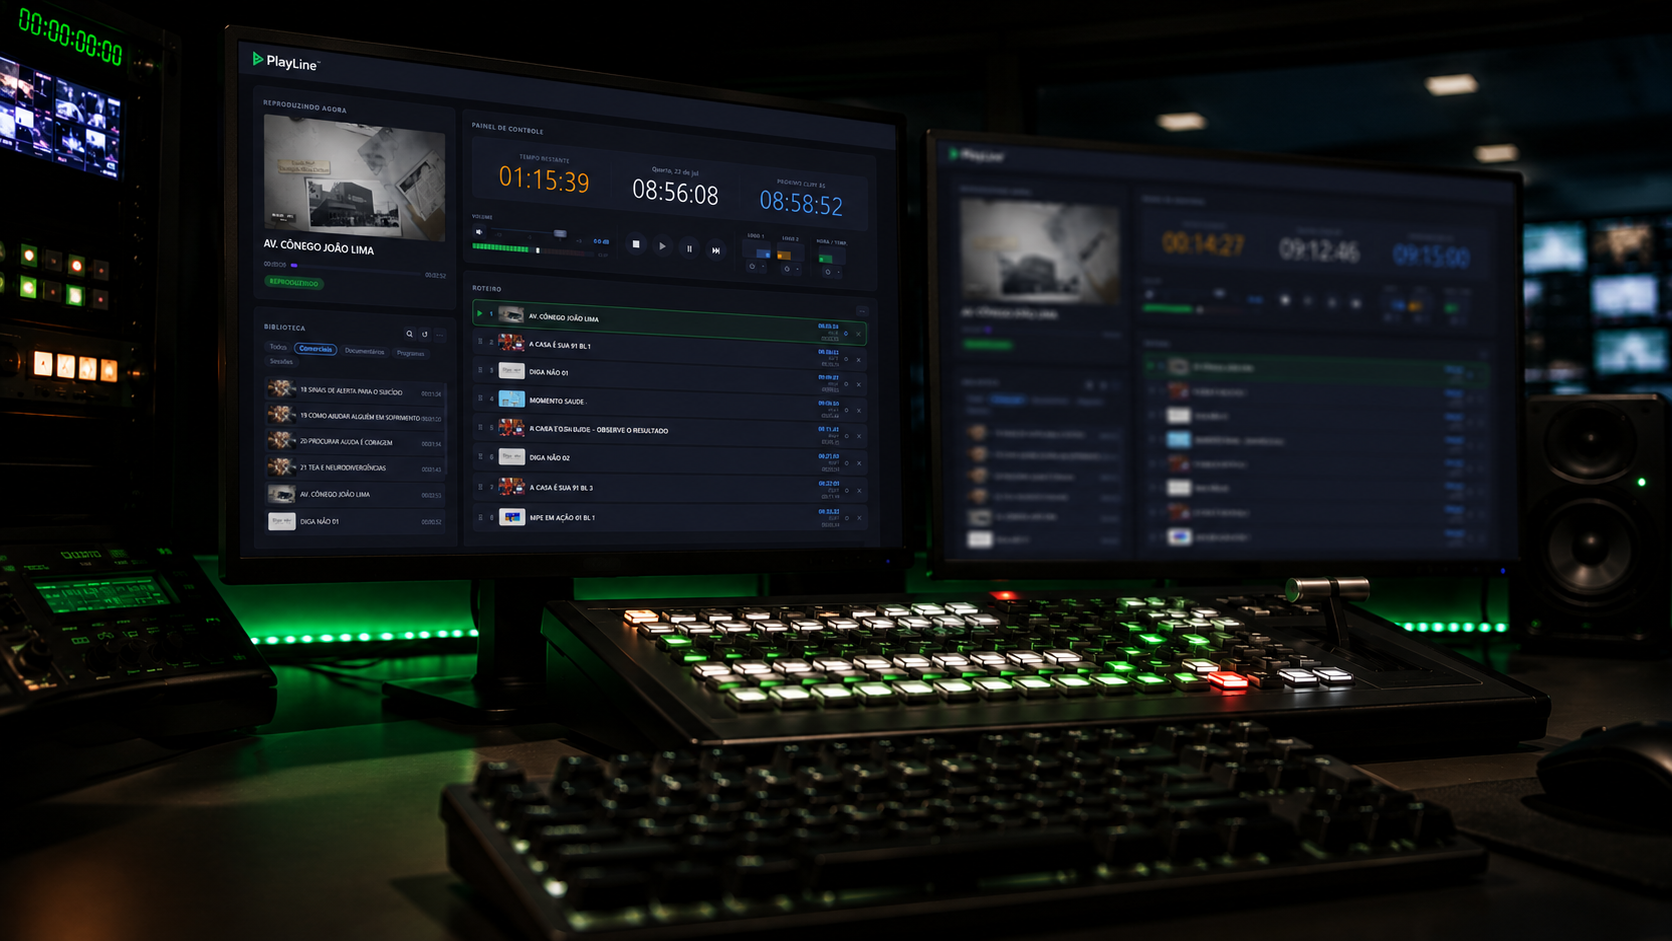
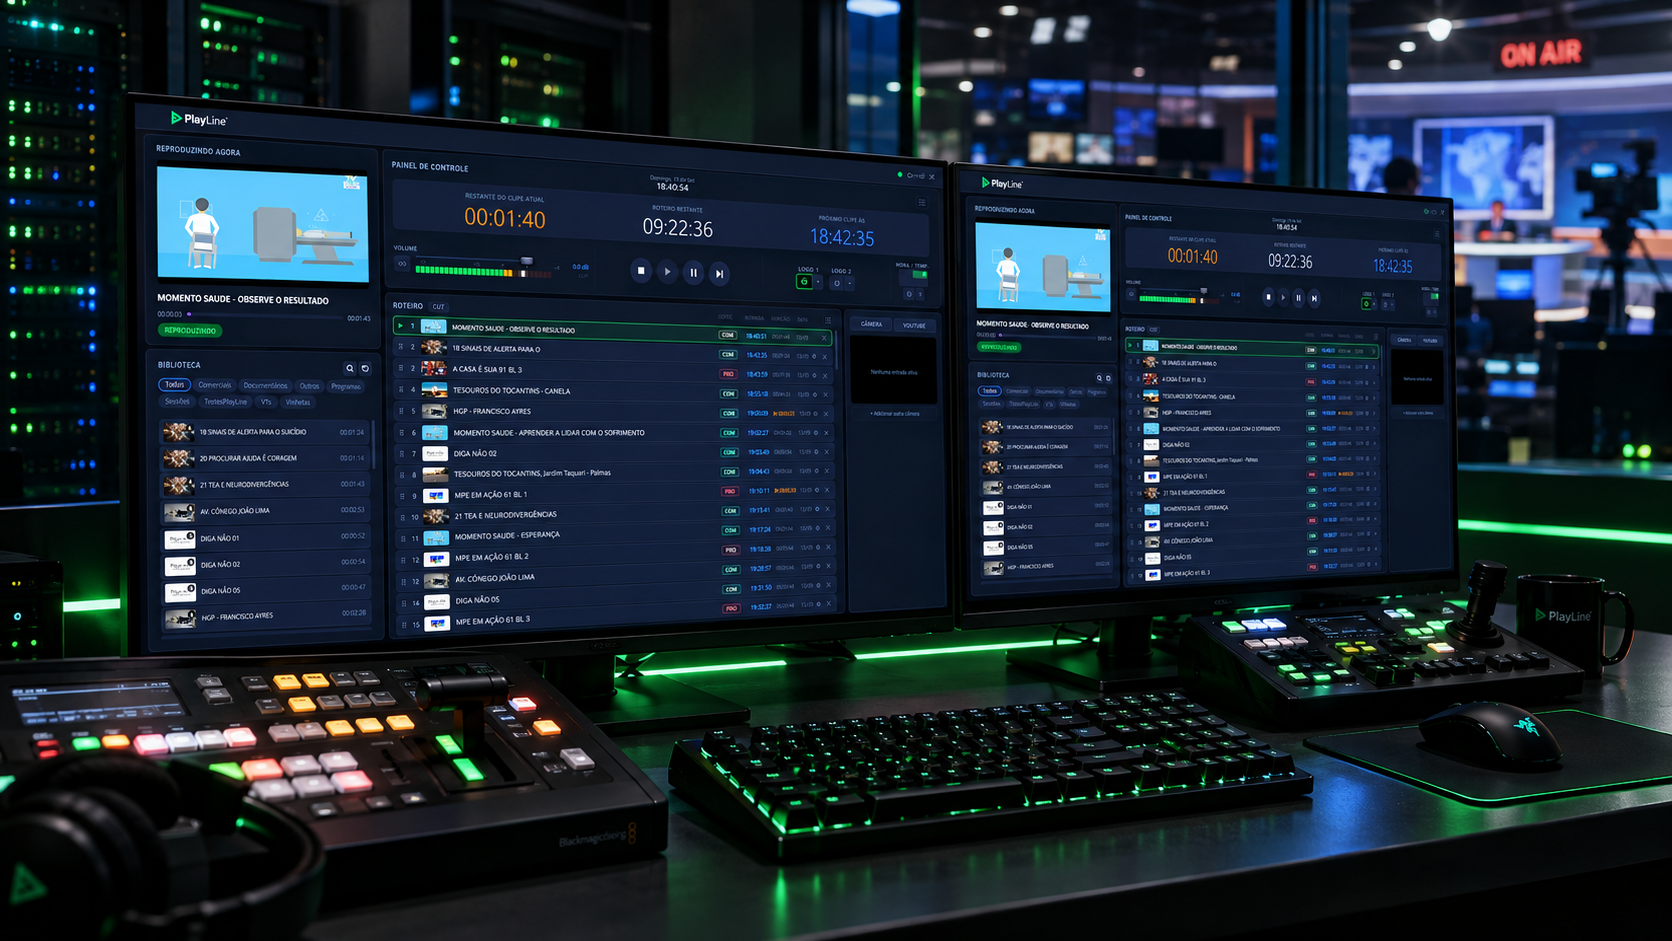
ajusts index.html

diff --git a/docs/index.html b/docs/index.html
@@ -387,11 +387,33 @@ nav {
   overflow: hidden;
   background: url('images/ChatGPT Image 23 de jul. de 2026, 10_55_21.png') center center / cover fixed;
 }
+/* Título da seção de download: a foto tem monitores e números claros bem atrás
+   do texto. Este halo escuro cria uma "poça" de contraste que some nas bordas,
+   sem virar mais uma caixa competindo com o card logo abaixo. */
+.dl-heading {
+  position: relative;
+  max-width: 380px;
+  margin: 0 auto 26px;
+  padding: 22px 30px 18px;
+  background: rgba(17,24,39,0.82);
+  border: 1px solid var(--border);
+  border-radius: 14px;
+  -webkit-backdrop-filter: blur(6px);
+  backdrop-filter: blur(6px);
+}
+.dl-heading .section-sub { margin-bottom: 0; }
+#download .section-title { text-shadow: 0 2px 20px rgba(0,0,0,.55); }
+#download .dl-heading + div { margin-top: 0; }
+
 #download::before {
   content: '';
   position: absolute;
   inset: 0;
-  background: linear-gradient(to bottom, rgba(13,17,23,1) 0%, rgba(13,17,23,0.60) 40%, rgba(13,17,23,0.60) 60%, rgba(13,17,23,1) 100%);
+  /* Escurecimento forte no miolo: a foto fica como ambiente, sem competir com
+     o texto do card. O desfoque e a dessaturação empurram a imagem pro fundo. */
+  background: linear-gradient(to bottom, rgba(13,17,23,1) 10%, rgba(13,17,23,0.40) 15%, rgba(13,17,23,0.86) 35%, rgba(13,17,23,1) 100%);
+  -webkit-backdrop-filter: blur(1px) saturate(0.75);
+  backdrop-filter: blur(1px) saturate(0.75);
   z-index: 0;
 }
 #download::after {
@@ -476,7 +498,11 @@ body {
   content: '';
   position: absolute;
   inset: 0;
-  background: linear-gradient(to bottom, rgba(13, 17, 23, 0.60) 0%, rgba(13, 17, 23, 0.85) 60%, rgba(13, 17, 23, 1) 100%);
+  /* Topo da página: a imagem passa por trás do menu e da logo, então precisa de
+     bastante escurecimento já no começo, senão os links do menu somem na foto. */
+  background: linear-gradient(to bottom, rgba(13, 17, 23, 0.84) 0%, rgba(13, 17, 23, 0.90) 55%, rgba(13, 17, 23, 1) 100%);
+  -webkit-backdrop-filter: blur(1px) saturate(0.75);
+  backdrop-filter: blur(1px) saturate(0.75);
   z-index: 0;
 }
 .hero-wrap::after {
@@ -697,7 +723,7 @@ acesso à informação para milhões de pessoas.</p>
         <svg xmlns="http://www.w3.org/2000/svg" width="20" height="20" viewBox="0 0 24 24" fill="none" stroke="currentColor" stroke-width="2" stroke-linecap="round" stroke-linejoin="round"><circle cx="12" cy="12" r="10"/><polyline points="12 6 12 12 16 14"/></svg>
       </div>
       <h3>Hora e Temperatura</h3>
-      <p>Bloco de hora, temperatura e cidade sobrepostos ao vídeo. Seleção de 30 cidades brasileiras ou entrada manual.</p>
+      <p>Bloco de hora, temperatura e cidade sobrepostos ao vídeo. Monte sua própria lista com qualquer cidade do país, até 30, buscando pelo nome. Ou informe a temperatura manualmente.</p>
     </div>
 
     <div class="feature">
@@ -757,8 +783,10 @@ acesso à informação para milhões de pessoas.</p>
 <!-- Download -->
 <section class="section" id="download">
 
-  <h2 class="section-title">PlayLine v1.2.0</h2>
-  <p class="section-sub">Windows 10 ou superior.</p>
+  <div class="dl-heading">
+    <h2 class="section-title">PlayLine v1.2.0</h2>
+    <p class="section-sub">Windows 10 ou superior.</p>
+  </div>
   <div style="max-width:380px;margin:0 auto">
 
     <div class="dl-card">

diff --git a/README.md b/README.md
@@ -60,7 +60,9 @@ Requisitos: Windows 10/11 x64, [Visual C++ Redistributable](https://aka.ms/vs/17
 
 ### Hora e Temperatura
 - Bloco de hora, temperatura e cidade sobrepostos ao vídeo em tempo real
-- Seleção de 30 cidades brasileiras ou entrada manual
+- **Lista de cidades montada pelo operador** em Configurações: busque qualquer cidade do país pelo nome e mantenha até 30 na lista
+- Cada cidade guarda suas coordenadas, o que evita a temperatura de uma cidade homônima de outro estado
+- Temperatura manual quando a emissora tem serviço meteorológico próprio
 - Integração com OpenWeatherMap API, com fallback automático para wttr.in
 
 ### Histórico e Estatísticas
@@ -87,6 +89,8 @@ Requisitos: Windows 10/11 x64, [Visual C++ Redistributable](https://aka.ms/vs/17
 - Acesso protegido por usuário e senha (padrão `playline`/`playline`), exigidos também nas conexões WebSocket e nos aplicativos auxiliares
 - Troca de usuário e senha pela própria interface, mediante confirmação das credenciais atuais; a senha é guardada apenas como hash (PBKDF2-SHA256 com salt)
 - Pasta da biblioteca configurável: qualquer pasta do computador, inclusive HD externo, com seletor nativo do Windows
+- Lista de cidades do overlay de hora e temperatura, com busca por nome e limite de 30
+- Duração do fade to black entre clipes
 - Sessões de 8 horas; trocar a senha derruba as demais sessões abertas
 
 ### Transmissão sem operador
